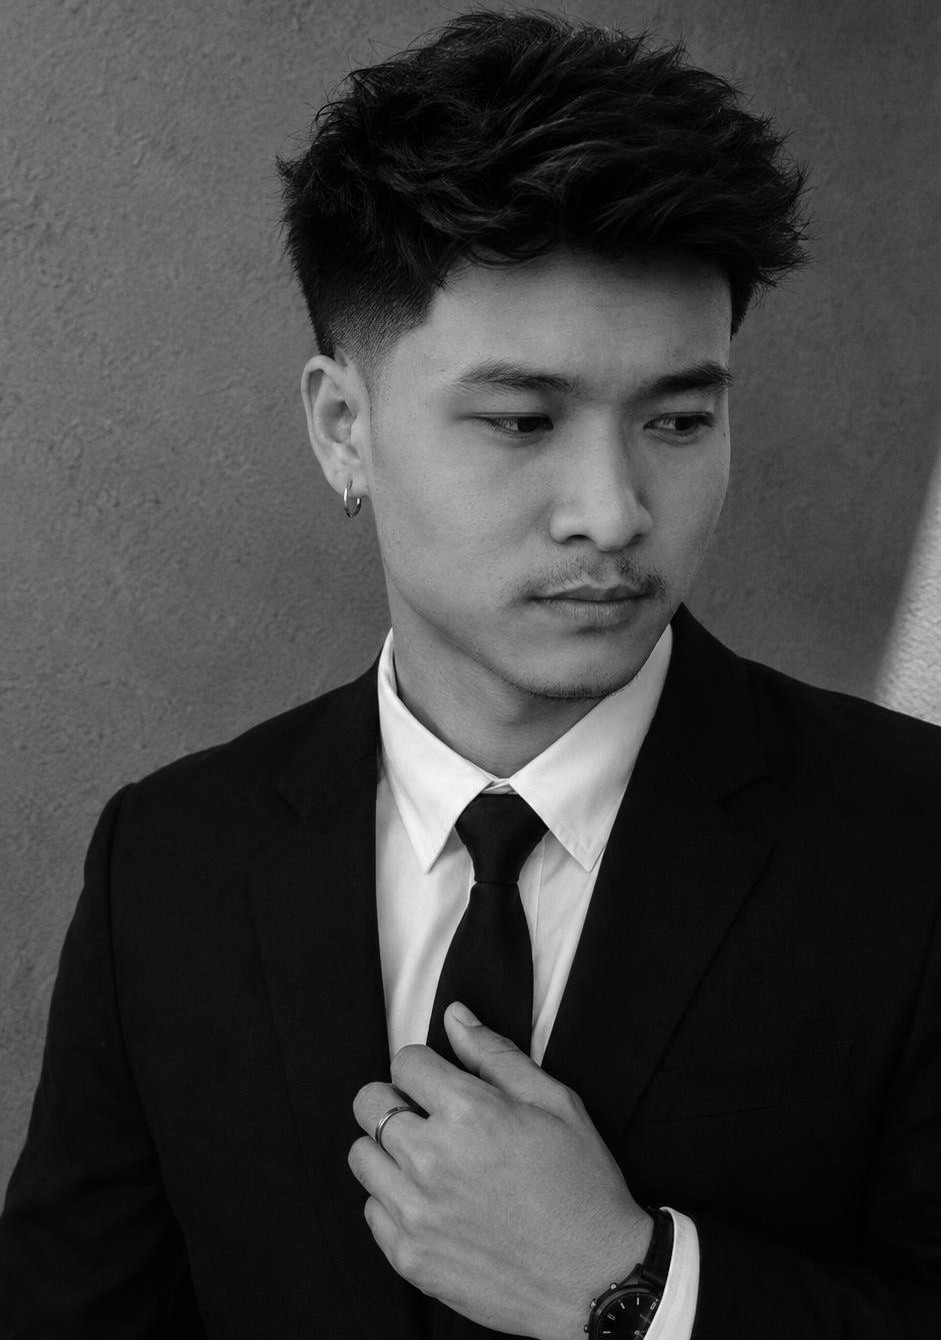
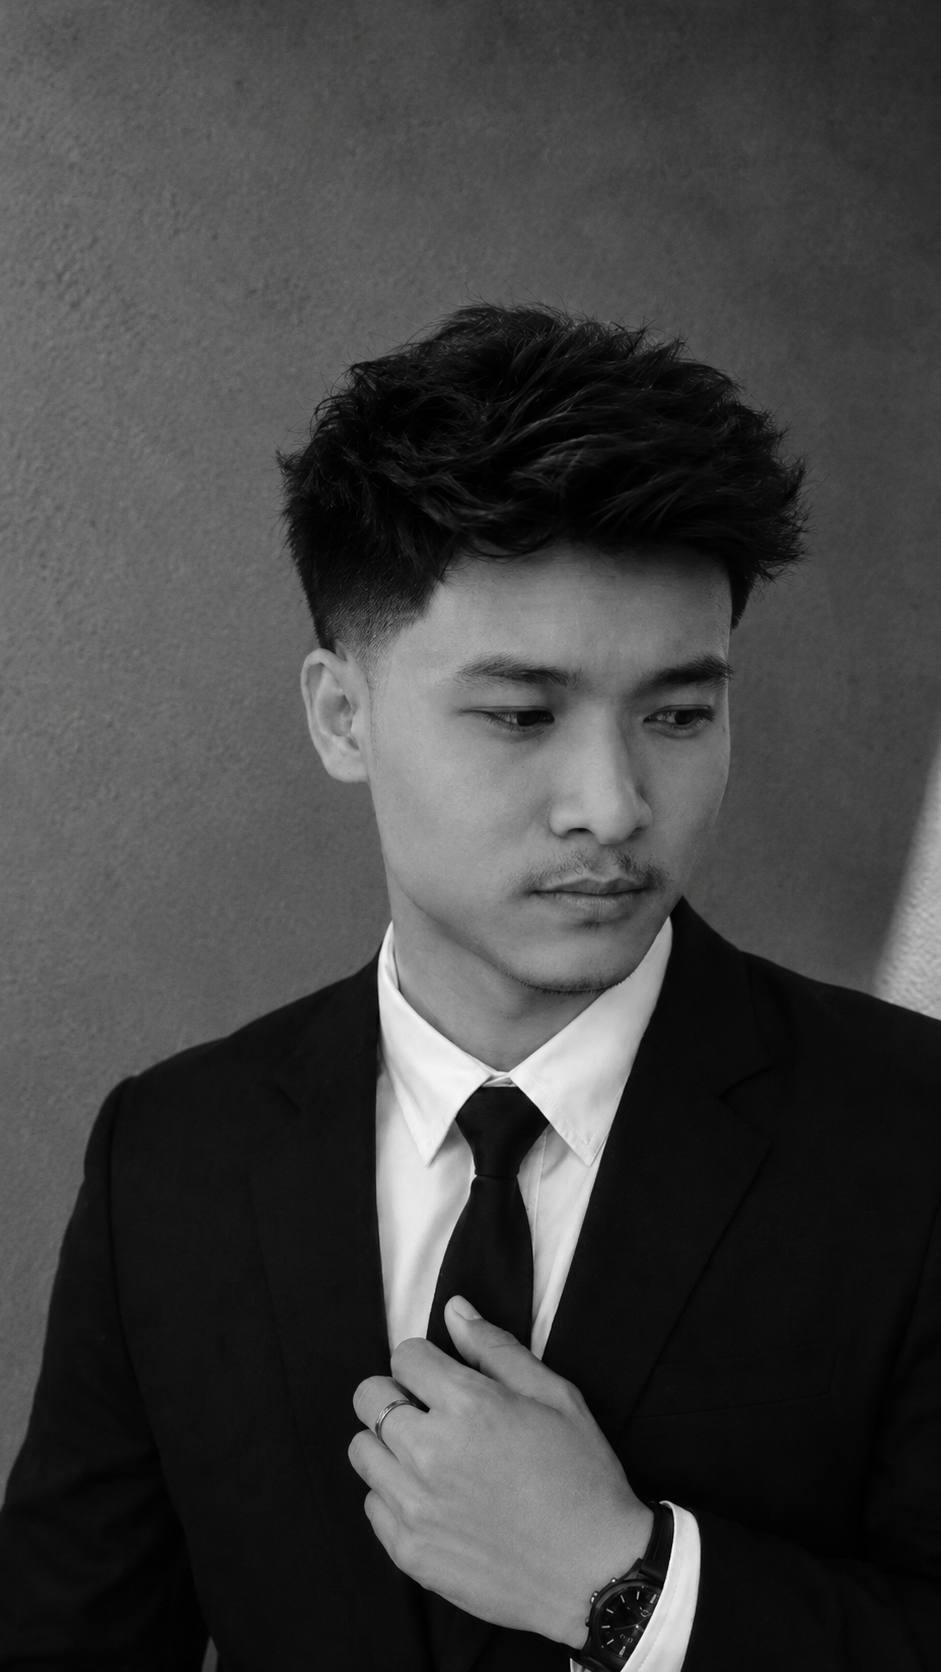
fixed code

diff --git a/src/components/About.jsx b/src/components/About.jsx
@@ -64,7 +64,7 @@ const About = () => {
             />
           </div>
           <h2 className="text-3xl md:text-4xl font-bold text-slate-700 dark:text-white">
-            {t("service.what_can_i_do")}
+            {t("about.who_am_i")}
           </h2>
         </div>
 
